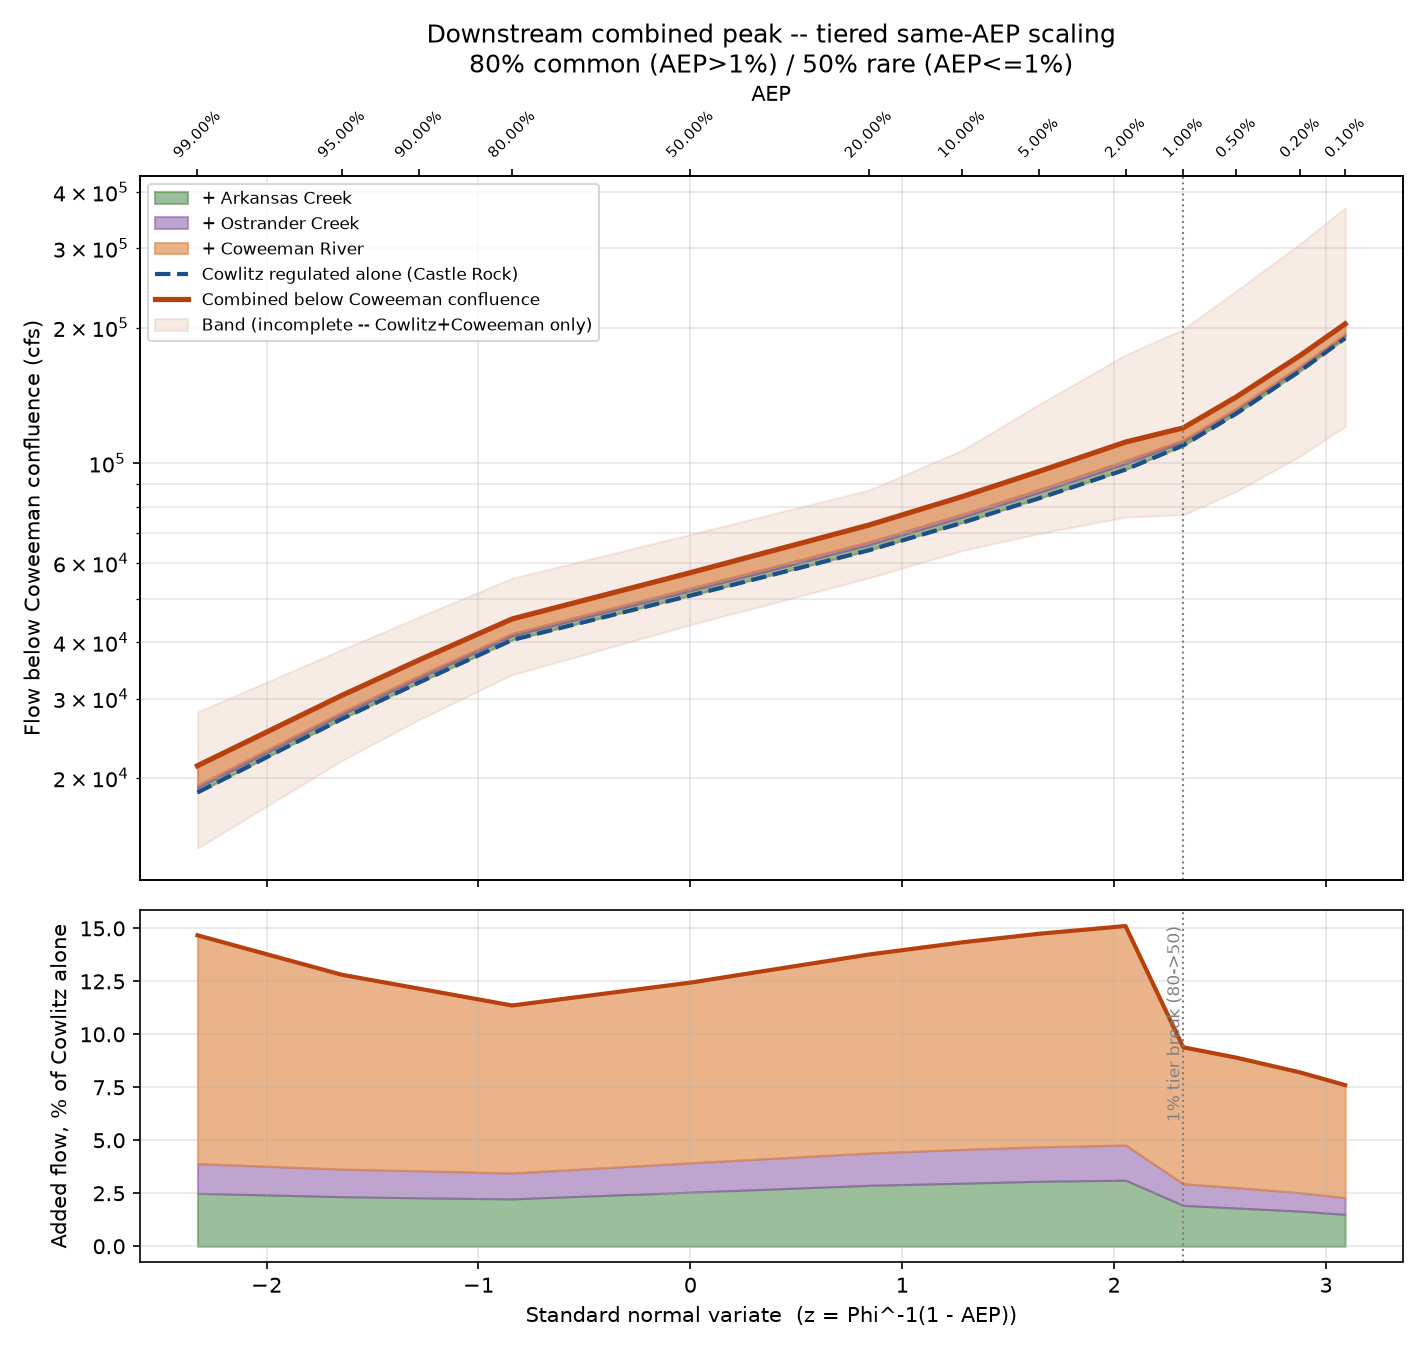
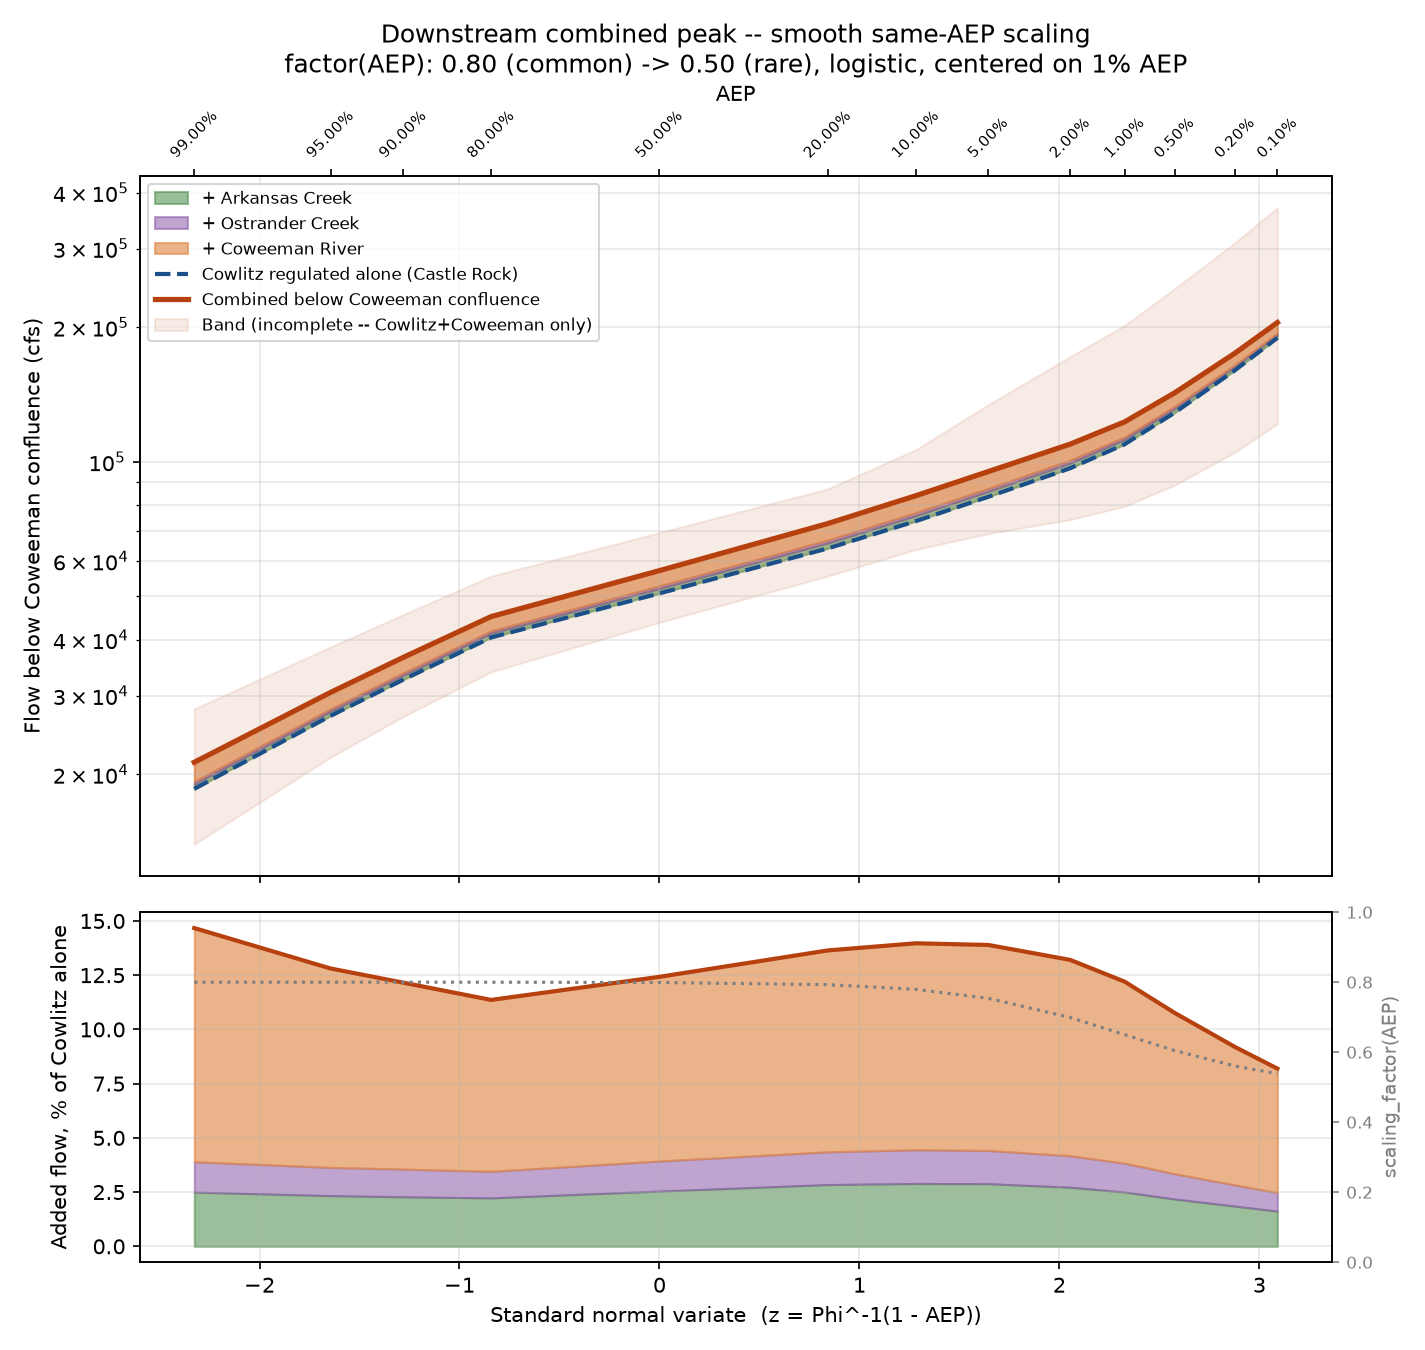
Replace hard 80%/50% step with a smooth logistic transition
scaling_factor(AEP) now runs continuously from 0.80 to 0.50 via a
logistic in z-space centered on 1% AEP (TRANSITION_WIDTH_Z=0.4,
tunable) instead of switching discretely at that point. Removes the
visible kink in the combined curve. The factor itself is now plotted
on its own axis in the bottom panel so the transition shape is
explicit, not just implied.

Also recorded the East Fork Lewis check's actual result in the
docstring: it corroborates the DIRECTION of the tail effect (n=71
real USGS data) but a much smaller MAGNITUDE than the Coweeman alone
suggests -- 7% drop (20-40k to >60k bins) vs Coweeman's 36%, with
more than double Coweeman's tail-bin sample and no rating-curve
capping problem. FACTOR_RARE is left at 0.50 pending a decision on
whether ~0.62-0.65 (EF-Lewis-corroborated, and the MORE conservative
choice since a lower factor means less added flow) is a better
floor. One constant to change once that's settled.

1,000-yr result: 203,839 -> 204,954 cfs (negligible move; the smooth
curve at AEP=0.001 sits at 0.539, not yet fully at the 0.50 floor).

diff --git a/CAS_Reg_Unreg/src/#Coincident_TieredScaling.py b/CAS_Reg_Unreg/src/#Coincident_TieredScaling.py
@@ -4,17 +4,33 @@
 Castle Rock regulated peak + Arkansas Creek + Ostrander Creek + Coweeman,
 combined with a two-tier same-AEP scaling factor.
 
-THE RULE (decided in chat, not derived fresh here)
-    For AEP > 1% (more frequent than 1-in-100):
-        combined(AEP) = Cowlitz_reg(AEP) + 0.80 * tributary(AEP)
-    For AEP <= 1% (1-in-100 and rarer, out to 1,000-yr):
-        combined(AEP) = Cowlitz_reg(AEP) + 0.50 * tributary(AEP)
+THE RULE
+    combined(AEP) = Cowlitz_reg(AEP) + factor(AEP) * tributary(AEP)
     Applied to each of Arkansas Creek, Ostrander Creek, and the Coweeman
     independently, then summed with Cowlitz's regulated curve. No separate
-    timing-lag correction on top -- both factors are COINCIDENT ratios
-    (tributary flow at the moment Castle Rock peaks, over the tributary's
-    own peak), so whatever lag exists is already inside the number; adding
-    a second timing adjustment would double-count it.
+    timing-lag correction on top -- both endpoints of factor() are
+    COINCIDENT ratios (tributary flow at the moment Castle Rock peaks,
+    over the tributary's own peak), so whatever lag exists is already
+    inside the number; adding a second timing adjustment would
+    double-count it.
+
+    factor(AEP) is a SMOOTH logistic transition in z-space (z =
+    Phi^-1(1-AEP), the same axis every curve in this analysis is plotted
+    against), not a hard step -- changed from an earlier version of this
+    script after the step was flagged as an unrealistic discontinuity to
+    write into a design curve. It runs from FACTOR_COMMON at common AEPs
+    to FACTOR_RARE at rare AEPs, centered on TRANSITION_CENTER_AEP with
+    width TRANSITION_WIDTH_Z (in z-units):
+
+        factor(z) = FACTOR_RARE + (FACTOR_COMMON - FACTOR_RARE)
+                    / (1 + exp((z - z_center) / TRANSITION_WIDTH_Z))
+
+    TRANSITION_WIDTH_Z=0.4 puts most of the transition within about one
+    AEP_GRID step on either side of the center (roughly the 2% to 0.5%
+    AEP range) -- narrow enough to still mean something like "common" vs
+    "rare" behavior, wide enough not to be a cliff. It is a judgment
+    call, not a fitted number; there are only 3 magnitude bins per basin
+    behind this, nowhere near enough to fit a transition shape to.
 
 WHERE THE TWO NUMBERS COME FROM, AND HOW MUCH TO TRUST THEM
     0.80: the 2009-era East Fork Lewis analog-basin figure
@@ -35,12 +51,20 @@ WHERE THE TWO NUMBERS COME FROM, AND HOW MUCH TO TRUST THEM
     data of their own to check it against -- two stacked assumptions
     (the AEP extrapolation, and the cross-basin transfer), not one.
 
-    A same-basin, better-instrumented check (East Fork Lewis itself,
-    against the long unregulated Castle Rock series back to 1928) was
-    proposed to see whether the same high-AEP/low-AEP transition shows
-    up independently -- blocked in this environment (USGS hosts are not
-    reachable from this sandbox's network policy). Worth running locally,
-    not done here.
+    UPDATE -- the East Fork Lewis check ran (#EFLewis_Analog_Check.py,
+    n=71, real USGS data, no longer blocked once fetched locally). It
+    corroborates the DIRECTION of the tail effect but not its MAGNITUDE:
+        Coweeman:   20-40k 0.809 -> >60k 0.520  (n=8,  36% drop)
+        EF Lewis:   20-40k 0.669 -> >60k 0.624  (n=18,  7% drop)
+    EF Lewis's tail bin has more than double Coweeman's sample and comes
+    from a USGS gage without Coweeman's documented rating-curve capping
+    problem -- there is a real argument that 0.50 is too aggressive a
+    reduction and something closer to 0.62-0.65 is both better evidenced
+    and the more conservative choice (LOWER factor means LESS added
+    flow, i.e. 0.50 is the less conservative of the two, not the
+    safer one -- easy to get backwards). FACTOR_RARE is left at 0.50
+    below pending an explicit decision on this; change the one constant
+    when that's settled.
 
 CAP AT AEP=0.001 (1,000-YEAR)
     Arkansas/Ostrander's StreamStats table (CDID3_Coincident... no --
@@ -82,9 +106,12 @@ OUT_CSV = os.path.join(OUT_DIR, "coincident_tiered_scaling.csv")
 PLOT_PNG = os.path.join(OUT_DIR, "coincident_tiered_scaling.png")
 SENS_CSV = os.path.join(OUT_DIR, "coincident_method_sensitivity.csv")
 
-TIER_BREAK_AEP = 0.01     # 1% -- at and rarer than this, use FACTOR_RARE
-FACTOR_COMMON = 0.80      # AEP > 0.01
-FACTOR_RARE = 0.50        # AEP <= 0.01
+TRANSITION_CENTER_AEP = 0.01   # 1% -- logistic transition midpoint
+TRANSITION_WIDTH_Z = 0.4       # smaller = sharper transition, in z-units
+FACTOR_COMMON = 0.80           # factor at common AEPs (AEP >> center)
+FACTOR_RARE = 0.50             # factor at rare AEPs (AEP << center) -- see
+                                # docstring's EF Lewis update before trusting
+                                # this over ~0.62-0.65
 
 # Downstream_Confluence_Notes.md, Table B-VI (USGS StreamStats via
 # COWLITZ_HYDROLOGY_REPORT_DRAFT2.docx). Point estimates only -- no
@@ -109,8 +136,14 @@ C_TIER = "gray"
 # ----------------------------------------------------------------------------
 
 
-def tier_factor(aep):
-    return FACTOR_RARE if aep <= TIER_BREAK_AEP else FACTOR_COMMON
+def scaling_factor(aep):
+    """Smooth logistic transition from FACTOR_COMMON to FACTOR_RARE as AEP
+    gets rarer, centered (in z-space) on TRANSITION_CENTER_AEP. Replaces an
+    earlier hard step at the same center -- see docstring."""
+    z = stats.norm.ppf(1 - aep)
+    z_center = stats.norm.ppf(1 - TRANSITION_CENTER_AEP)
+    return FACTOR_RARE + (FACTOR_COMMON - FACTOR_RARE) / (
+        1 + np.exp((z - z_center) / TRANSITION_WIDTH_Z))
 
 
 def main():
@@ -145,7 +178,7 @@ def main():
 
     rows = []
     for aep in aep_grid:
-        factor = tier_factor(aep)
+        factor = scaling_factor(aep)
 
         cas_best = lookup(reg, aep, "reg_inferred_cfs")
         cas_lo = lookup(reg, aep, "reg_lower_95pct_cfs")
@@ -171,7 +204,7 @@ def main():
 
         rows.append({
             "AEP": aep,
-            "tier_factor": factor,
+            "scaling_factor": factor,
             "cowlitz_reg_cfs": cas_best,
             "arkansas_cfs_x_factor": factor * ark,
             "ostrander_cfs_x_factor": factor * ost,
@@ -186,7 +219,7 @@ def main():
     out = pd.DataFrame(rows)
     out.to_csv(OUT_CSV, index=False)
     print("Wrote", OUT_CSV)
-    print(out[["AEP", "tier_factor", "cowlitz_reg_cfs", "below_arkansas_cfs",
+    print(out[["AEP", "scaling_factor", "cowlitz_reg_cfs", "below_arkansas_cfs",
                "below_ostrander_cfs", "below_coweeman_cfs"]].to_string(index=False))
 
     target = out.iloc[(out["AEP"] - 0.001).abs().idxmin()]
@@ -220,11 +253,11 @@ def main():
                      out["combined_upper_incomplete_band_cfs"],
                      color=C_COMBINED, alpha=0.10,
                      label="Band (incomplete -- Cowlitz+Coweeman only)")
-    ax.axvline(stats.norm.ppf(1 - TIER_BREAK_AEP), color=C_TIER, lw=1, ls=":")
     ax.set_yscale("log")
     ax.set_ylabel("Flow below Coweeman confluence (cfs)")
-    ax.set_title("Downstream combined peak -- tiered same-AEP scaling\n"
-                  "80% common (AEP>1%) / 50% rare (AEP<=1%)")
+    ax.set_title("Downstream combined peak -- smooth same-AEP scaling\n"
+                  "factor(AEP): %.2f (common) -> %.2f (rare), logistic, centered "
+                  "on %.0f%% AEP" % (FACTOR_COMMON, FACTOR_RARE, TRANSITION_CENTER_AEP * 100))
     ax.grid(True, which="both", alpha=0.3)
     ax.legend(loc="upper left", fontsize=8)
 
@@ -234,13 +267,18 @@ def main():
     axp.fill_between(z, 100 * (a2 - base) / base, 100 * (a3 - base) / base,
                       color="#e08a4a", alpha=0.65)
     axp.plot(z, 100 * (a3 - base) / base, color=C_COMBINED, lw=2)
-    axp.axvline(stats.norm.ppf(1 - TIER_BREAK_AEP), color=C_TIER, lw=1, ls=":")
-    axp.text(stats.norm.ppf(1 - TIER_BREAK_AEP), 0.97, " 1% tier break (80->50) ",
-             transform=axp.get_xaxis_transform(), rotation=90, va="top", ha="right",
-             fontsize=8, color=C_TIER)
     axp.set_ylabel("Added flow, % of Cowlitz alone")
     axp.set_xlabel("Standard normal variate  (z = Phi^-1(1 - AEP))")
     axp.grid(True, alpha=0.3)
+
+    # scaling_factor itself, on its own right-hand axis of the bottom panel,
+    # so the smooth transition shape is directly visible, not just implied
+    # by the curves it produced.
+    axf = axp.twinx()
+    axf.plot(z, out["scaling_factor"], color=C_TIER, lw=1.5, ls=":")
+    axf.set_ylabel("scaling_factor(AEP)", color=C_TIER, fontsize=9)
+    axf.tick_params(axis="y", colors=C_TIER, labelsize=8)
+    axf.set_ylim(0, 1)
 
     ax2 = ax.twiny()
     ax2.set_xlim(ax.get_xlim())
@@ -256,7 +294,7 @@ def main():
     # Recover each tributary's UNSCALED contribution by dividing out the tier
     # factor, then rebuild the two alternative methods from the same inputs.
     trib = (out["arkansas_cfs_x_factor"] + out["ostrander_cfs_x_factor"]
-            + out["coweeman_cfs_x_factor"]) / out["tier_factor"]
+            + out["coweeman_cfs_x_factor"]) / out["scaling_factor"]
     m100 = out["cowlitz_reg_cfs"] + trib
     m80 = out["cowlitz_reg_cfs"] + 0.80 * trib
     mstep = out["below_coweeman_cfs"]
